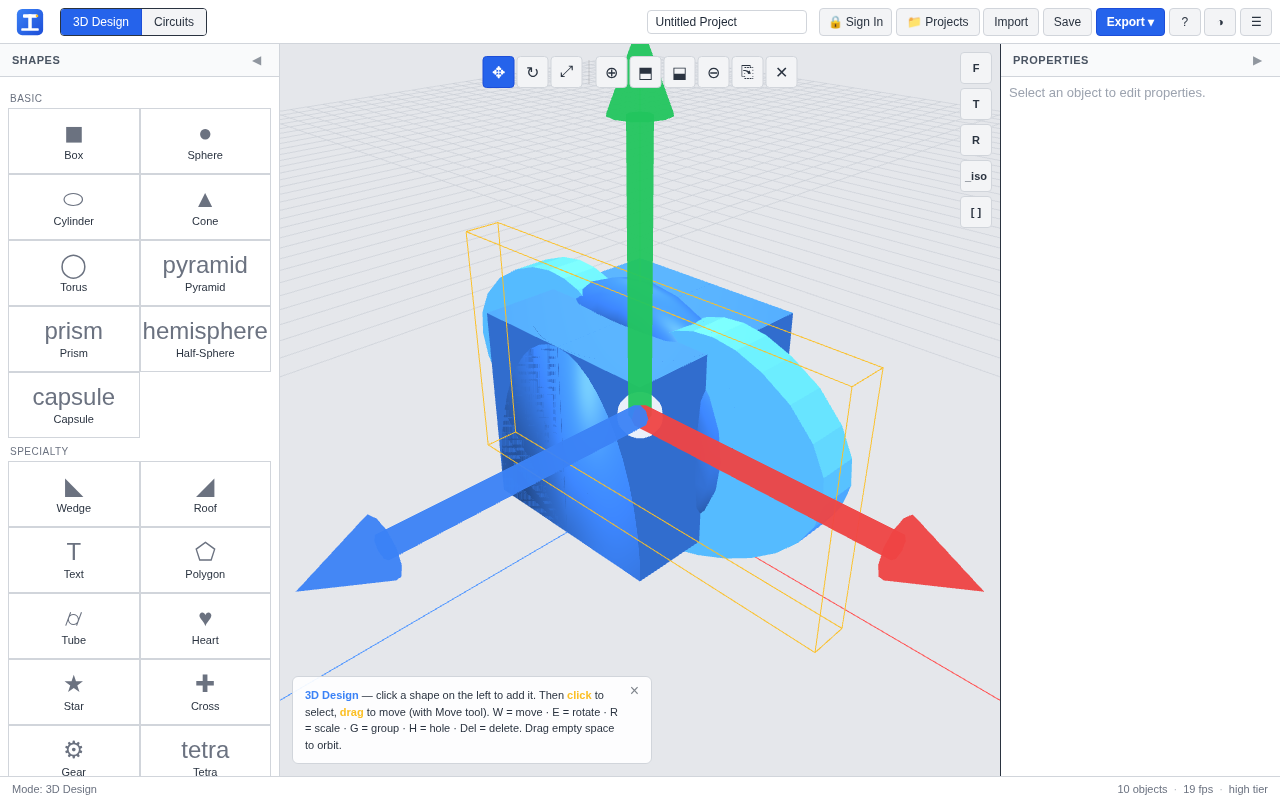
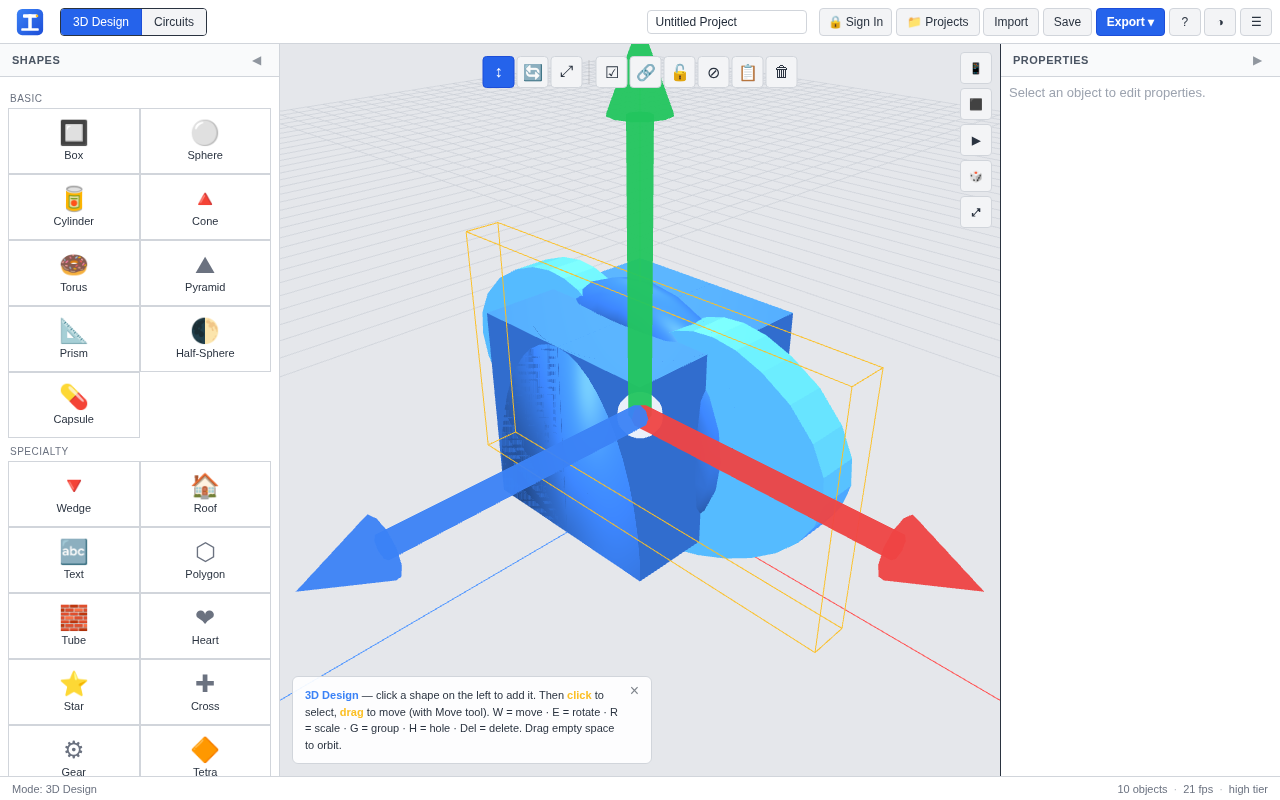
1ac96e27-5e37-4d87-b16d-8d237ab8d813

diff --git a/public/index.html b/public/index.html
@@ -102,37 +102,37 @@
 
     <!-- Floating viewport controls -->
     <div id="viewport-controls">
-      <button class="vc-btn" data-view="front" title="Front view">F</button>
-      <button class="vc-btn" data-view="top" title="Top view">T</button>
-      <button class="vc-btn" data-view="right" title="Right view">R</button>
-      <button class="vc-btn" data-view="iso" title="Isometric view">_iso</button>
-      <button class="vc-btn" data-view="fit" title="Fit all">[ ]</button>
+      <button class="vc-btn" data-view="front" title="Front view">📱</button>
+      <button class="vc-btn" data-view="top" title="Top view">⬛</button>
+      <button class="vc-btn" data-view="right" title="Right view">▶</button>
+      <button class="vc-btn" data-view="iso" title="Isometric view">🎲</button>
+      <button class="vc-btn" data-view="fit" title="Fit all">⤢</button>
     </div>
 
     <!-- Transform toolbar (3D mode only) -->
     <div id="transform-toolbar" class="floating-toolbar">
-      <button class="tt-btn active" data-tool="move" title="Move (W)">✥</button>
-      <button class="tt-btn" data-tool="rotate" title="Rotate (E)">↻</button>
+      <button class="tt-btn active" data-tool="move" title="Move (W)">↕</button>
+      <button class="tt-btn" data-tool="rotate" title="Rotate (E)">🔄</button>
       <button class="tt-btn" data-tool="scale" title="Scale (R)">⤢</button>
       <span class="tt-sep"></span>
-      <button class="tt-btn" data-tool="multi" title="Multi-select toggle (hold Shift to add to selection)">⊕</button>
-      <button class="tt-btn" data-tool="group" title="Group selected (G)">⬒</button>
-      <button class="tt-btn" data-tool="ungroup" title="Ungroup selected group">⬓</button>
-      <button class="tt-btn" data-tool="hole" title="Toggle Hole (H)">⊖</button>
-      <button class="tt-btn" data-tool="duplicate" title="Duplicate (D)">⎘</button>
-      <button class="tt-btn" data-tool="delete" title="Delete (Del)">✕</button>
+      <button class="tt-btn" data-tool="multi" title="Multi-select toggle">☑</button>
+      <button class="tt-btn" data-tool="group" title="Group selected (G)">🔗</button>
+      <button class="tt-btn" data-tool="ungroup" title="Ungroup selected">🔓</button>
+      <button class="tt-btn" data-tool="hole" title="Toggle Hole (H)">⊘</button>
+      <button class="tt-btn" data-tool="duplicate" title="Duplicate (D)">📋</button>
+      <button class="tt-btn" data-tool="delete" title="Delete (Del)">🗑</button>
     </div>
 
     <!-- Circuits toolbar (circuits mode only) -->
     <div id="circuits-toolbar" class="floating-toolbar" style="display:none;">
-      <button class="ct-btn active" data-ctool="select" title="Select / Move">✥</button>
-      <button class="ct-btn" data-ctool="rotate" title="Rotate 90°">↻</button>
-      <button class="ct-btn" data-ctool="duplicate" title="Duplicate">⎘</button>
-      <button class="ct-btn" data-ctool="delete" title="Delete">✕</button>
+      <button class="ct-btn active" data-ctool="select" title="Select / Move">↔</button>
+      <button class="ct-btn" data-ctool="rotate" title="Rotate 90°">🔄</button>
+      <button class="ct-btn" data-ctool="duplicate" title="Duplicate">📋</button>
+      <button class="ct-btn" data-ctool="delete" title="Delete">🗑</button>
       <span class="tt-sep"></span>
-      <button class="ct-btn" data-ctool="zoomin" title="Zoom in">＋</button>
-      <button class="ct-btn" data-ctool="zoomout" title="Zoom out">－</button>
-      <button class="ct-btn" data-ctool="zoomfit" title="Fit to view">[ ]</button>
+      <button class="ct-btn" data-ctool="zoomin" title="Zoom in">🔍+</button>
+      <button class="ct-btn" data-ctool="zoomout" title="Zoom out">🔍−</button>
+      <button class="ct-btn" data-ctool="zoomfit" title="Fit to view">⤢</button>
     </div>
 
     <!-- Mobile: bottom sheet trigger -->
@@ -140,11 +140,11 @@
 
     <!-- Mobile/touch: D-pad for moving selected objects -->
     <div id="mobile-dpad" class="touch-only hidden">
-      <button class="dpad-btn dpad-up" data-dir="up" title="Move up">▲</button>
-      <button class="dpad-btn dpad-left" data-dir="left" title="Move left">◀</button>
-      <button class="dpad-btn dpad-center" data-dir="center" title="OK">✓</button>
-      <button class="dpad-btn dpad-right" data-dir="right" title="Move right">▶</button>
-      <button class="dpad-btn dpad-down" data-dir="down" title="Move down">▼</button>
+      <button class="dpad-btn dpad-up" data-dir="up" title="Move forward">⬆</button>
+      <button class="dpad-btn dpad-left" data-dir="left" title="Move left">⬅</button>
+      <button class="dpad-btn dpad-center" data-dir="center" title="Deselect">✓</button>
+      <button class="dpad-btn dpad-right" data-dir="right" title="Move right">➡</button>
+      <button class="dpad-btn dpad-down" data-dir="down" title="Move back">⬇</button>
     </div>
   </section>
 

diff --git a/public/js/mode-3d.js b/public/js/mode-3d.js
@@ -664,31 +664,31 @@
       var html = '';
       html += '<div class="shape-section-label">Basic</div>';
       html += '<div class="shape-grid">';
-      html += this._shapeBtn('box', '◼', 'Box');
-      html += this._shapeBtn('sphere', '●', 'Sphere');
-      html += this._shapeBtn('cylinder', '⬭', 'Cylinder');
-      html += this._shapeBtn('cone', '▲', 'Cone');
-      html += this._shapeBtn('torus', '◯', 'Torus');
-      html += this._shapeBtn('pyramid', ' pyramid', 'Pyramid');
-      html += this._shapeBtn('prism', ' prism', 'Prism');
-      html += this._shapeBtn('hemisphere', ' hemisphere', 'Half-Sphere');
-      html += this._shapeBtn('capsule', ' capsule', 'Capsule');
+      html += this._shapeBtn('box', '🔲', 'Box');
+      html += this._shapeBtn('sphere', '⚪', 'Sphere');
+      html += this._shapeBtn('cylinder', '🥫', 'Cylinder');
+      html += this._shapeBtn('cone', '🔺', 'Cone');
+      html += this._shapeBtn('torus', '🍩', 'Torus');
+      html += this._shapeBtn('pyramid', '⛰', 'Pyramid');
+      html += this._shapeBtn('prism', '📐', 'Prism');
+      html += this._shapeBtn('hemisphere', '🌓', 'Half-Sphere');
+      html += this._shapeBtn('capsule', '💊', 'Capsule');
       html += '</div>';
       html += '<div class="shape-section-label">Specialty</div>';
       html += '<div class="shape-grid">';
-      html += this._shapeBtn('wedge', '◣', 'Wedge');
-      html += this._shapeBtn('roof', '◢', 'Roof');
-      html += this._shapeBtn('text', 'T', 'Text');
-      html += this._shapeBtn('polygon', '⬠', 'Polygon');
-      html += this._shapeBtn('tube', '⌭', 'Tube');
-      html += this._shapeBtn('heart', '♥', 'Heart');
-      html += this._shapeBtn('star', '★', 'Star');
+      html += this._shapeBtn('wedge', '🔻', 'Wedge');
+      html += this._shapeBtn('roof', '🏠', 'Roof');
+      html += this._shapeBtn('text', '🔤', 'Text');
+      html += this._shapeBtn('polygon', '⬡', 'Polygon');
+      html += this._shapeBtn('tube', '🧱', 'Tube');
+      html += this._shapeBtn('heart', '❤', 'Heart');
+      html += this._shapeBtn('star', '⭐', 'Star');
       html += this._shapeBtn('cross', '✚', 'Cross');
       html += this._shapeBtn('gear', '⚙', 'Gear');
-      html += this._shapeBtn('tetra', ' tetra', 'Tetra');
-      html += this._shapeBtn('octa', ' octa', 'Octa');
-      html += this._shapeBtn('arrow', '→', 'Arrow');
-      html += this._shapeBtn('spring', ' spring', 'Spring');
+      html += this._shapeBtn('tetra', '🔶', 'Tetra');
+      html += this._shapeBtn('octa', '💠', 'Octa');
+      html += this._shapeBtn('arrow', '➡', 'Arrow');
+      html += this._shapeBtn('spring', '🌀', 'Spring');
       html += '</div>';
       html += '<div class="shape-section-label">Measure</div>';
       html += '<div style="padding:8px 4px;">';
@@ -2237,14 +2237,14 @@
       html += '</div>';
       html += '<div style="font-size:11px;text-transform:uppercase;color:#6b7280;margin:12px 0 8px;">Tools</div>';
       html += '<div style="display:flex;gap:4px;flex-wrap:wrap;">';
-      html += '<button class="tb-btn" data-tool="move" style="flex:1;">Move</button>';
-      html += '<button class="tb-btn" data-tool="rotate" style="flex:1;">Rotate</button>';
-      html += '<button class="tb-btn" data-tool="scale" style="flex:1;">Scale</button>';
-      html += '<button class="tb-btn" data-tool="group" style="flex:1;">Group</button>';
-      html += '<button class="tb-btn" data-tool="solid" style="flex:1;">Solid</button>';
-      html += '<button class="tb-btn" data-tool="hole" style="flex:1;">Hole</button>';
-      html += '<button class="tb-btn" data-tool="duplicate" style="flex:1;">Dup</button>';
-      html += '<button class="tb-btn" data-tool="delete" style="flex:1;">Del</button>';
+      html += '<button class="tb-btn" data-tool="move" style="flex:1;">↕ Move</button>';
+      html += '<button class="tb-btn" data-tool="rotate" style="flex:1;">🔄 Rotate</button>';
+      html += '<button class="tb-btn" data-tool="scale" style="flex:1;">⤢ Scale</button>';
+      html += '<button class="tb-btn" data-tool="group" style="flex:1;">🔗 Group</button>';
+      html += '<button class="tb-btn" data-tool="solid" style="flex:1;">⬢ Solid</button>';
+      html += '<button class="tb-btn" data-tool="hole" style="flex:1;">⊘ Hole</button>';
+      html += '<button class="tb-btn" data-tool="duplicate" style="flex:1;">📋 Dup</button>';
+      html += '<button class="tb-btn" data-tool="delete" style="flex:1;">🗑 Del</button>';
       html += '</div>';
       html += '</div>';
       global.ForgeCAD.ui.bottomSheetToggle(html);
